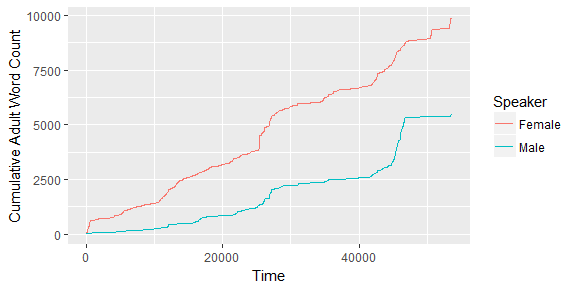
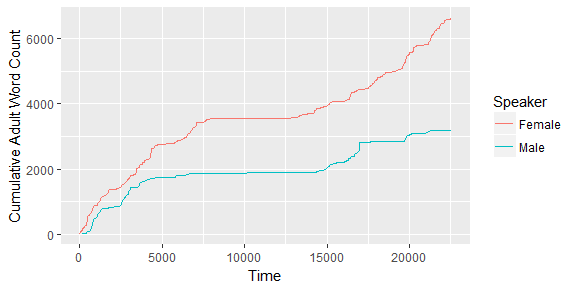
make readme reproducible by using public ITS file

diff --git a/README.md b/README.md
@@ -21,7 +21,14 @@ There are just a few functions at the moment:
 library(rlena)
 library(dplyr, warn.conflicts = FALSE)
 
-lena_log <- read_its_file("tests/testthat/data/file-for-testing.its") 
+# Download an example ITS file for demo
+url <- "https://raw.githubusercontent.com/gpretzer/lena-its-tools/master/Example/e20160420_165405_010572.its"
+tmp <- tempfile()
+download.file(url, tmp)
+lena_log <- read_its_file(tmp) 
+
+## local file used for testing
+# lena_log <- read_its_file("tests/testthat/data/file-for-testing.its") 
 ```
 
 Examples of simple information extraction.
@@ -30,13 +37,13 @@ Examples of simple information extraction.
 gather_ava_info(lena_log)
 #> # A tibble: 1 x 5
 #>                  ITSFile AVA_Raw AVA_Stnd AVA_EstMLU AVA_EstDevAge
-#>                    <chr>   <dbl>    <dbl>      <dbl>         <chr>
-#> 1 20140507_132613_009814  -0.285   95.727      3.286          P43M
+#>                    <chr>   <dbl>    <dbl>      <chr>         <chr>
+#> 1 20160420_165405_010572   0.715  110.724        ORL           P5M
 gather_child_info(lena_log)
 #> # A tibble: 1 x 6
 #>                  ITSFile  Birthdate Gender ChronologicalAge AVAModelAge
 #>                    <chr>     <date>  <chr>            <chr>       <chr>
-#> 1 20140507_132613_009814 2010-07-23      M             P45M        P45M
+#> 1 20160420_165405_010572 2015-11-19      M              P4M         P4M
 #> # ... with 1 more variables: VCVModelAge <chr>
 ```
 
@@ -45,20 +52,20 @@ We can extract a dataframe of conversations and play with the data.
 ``` r
 conversations <- gather_conversations(lena_log)
 conversations
-#> # A tibble: 1,985 x 41
+#> # A tibble: 655 x 41
 #>                   ITSFile   num  type average_dB peak_dB turnTaking
 #>                     <chr> <int> <chr>      <dbl>   <dbl>      <int>
-#>  1 20140507_132613_009814     1 XIOCA     -21.88   -7.73          0
-#>  2 20140507_132613_009814     2  AICF     -18.99   -8.38          1
-#>  3 20140507_132613_009814     3  AICF     -21.59   -9.95          2
-#>  4 20140507_132613_009814     4   CIC     -23.36  -10.99          1
-#>  5 20140507_132613_009814     5    XM     -33.57  -18.29          0
-#>  6 20140507_132613_009814     6   CIC     -20.70   -9.36          4
-#>  7 20140507_132613_009814     7    CM     -18.04   -8.86          0
-#>  8 20140507_132613_009814     8  AICF     -22.23   -9.33          1
-#>  9 20140507_132613_009814     9   CIC     -22.82   -8.11          2
-#> 10 20140507_132613_009814    10  AICF     -28.76   -9.14          1
-#> # ... with 1,975 more rows, and 35 more variables:
+#>  1 20160420_165405_010572     1   AMF     -26.16  -13.00          0
+#>  2 20160420_165405_010572     2   AMF     -26.57  -14.80          0
+#>  3 20160420_165405_010572     3  AICF     -18.10   -6.84          2
+#>  4 20160420_165405_010572     4 AIOCF     -15.92   -6.65          0
+#>  5 20160420_165405_010572     5   AMF     -25.37  -10.55          0
+#>  6 20160420_165405_010572     6  AICF     -26.77  -10.15          1
+#>  7 20160420_165405_010572     7    CM     -18.12   -6.75          0
+#>  8 20160420_165405_010572     8  AICF     -19.69   -9.72          1
+#>  9 20160420_165405_010572     9   AMF     -24.60   -9.37          0
+#> 10 20160420_165405_010572    10   AMF     -34.84  -26.24          0
+#> # ... with 645 more rows, and 35 more variables:
 #> #   femaleAdultInitiation <int>, maleAdultInitiation <int>,
 #> #   childResponse <int>, childInitiation <int>, femaleAdultResponse <int>,
 #> #   maleAdultResponse <int>, adultWordCnt <dbl>, femaleAdultWordCnt <dbl>,
